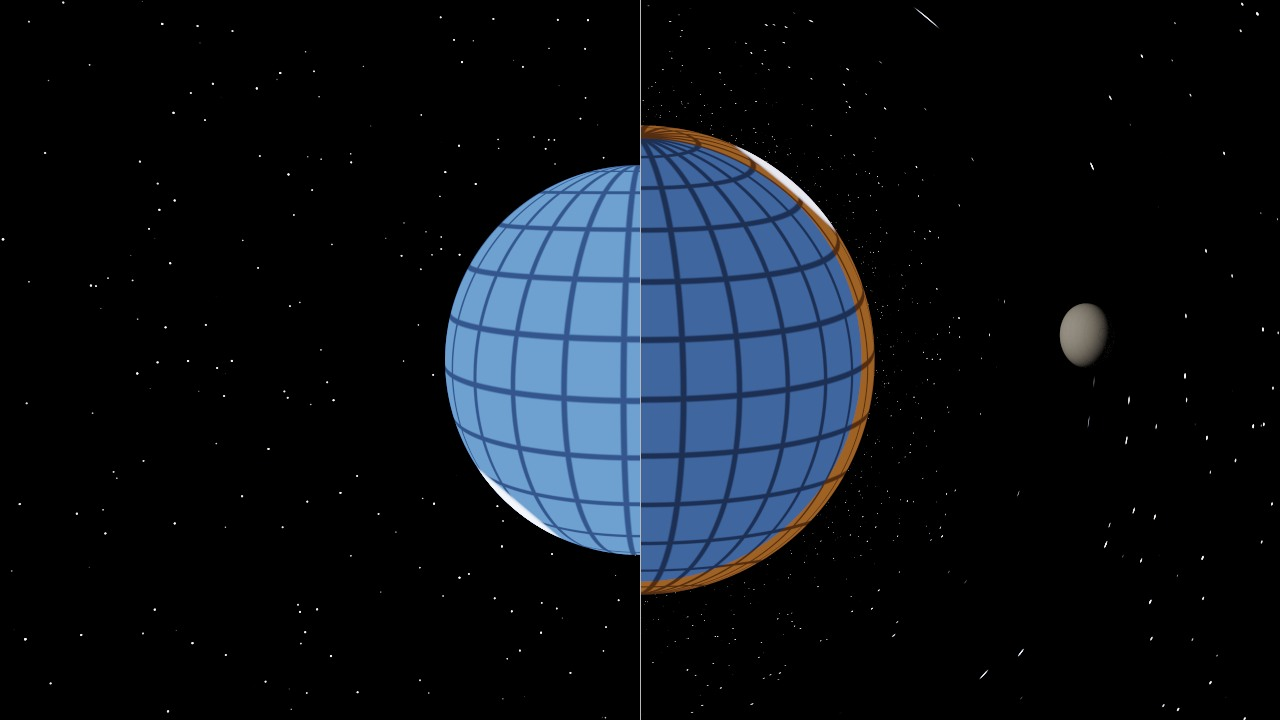
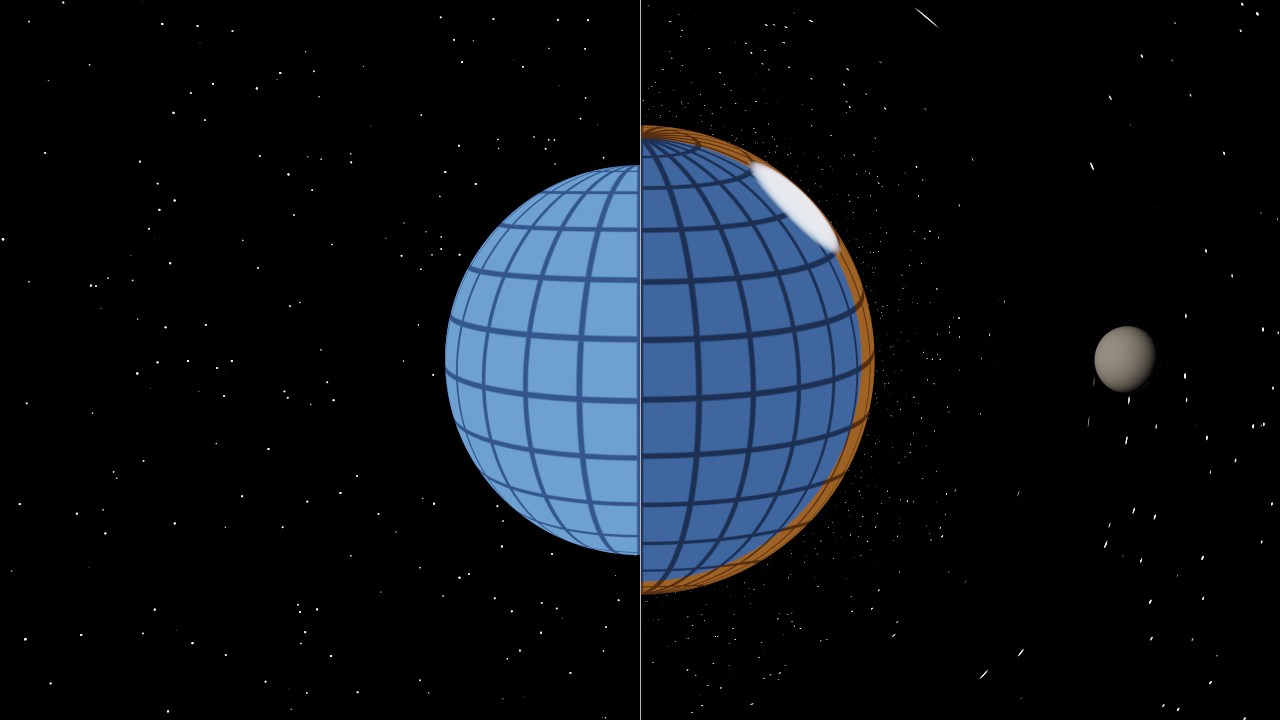
feat: realistic neutron star look with corona and field lines

Changed region(s): [[0.3438, 0.1528, 0.6875, 0.825], [0.8125, 0.4278, 0.9062, 0.55]]

diff --git a/src/main/java/dev/demir/vulkan/scene/ScenePresets.java b/src/main/java/dev/demir/vulkan/scene/ScenePresets.java
@@ -27,8 +27,8 @@ public final class ScenePresets {
 
     /**
      * A neutron star of 1.4 solar masses and 12 km radius (R = 5.8M), spinning, with hot spots at the
-     * poles of a magnetic axis tilted by 45°. Bent light shows 75.5% of its surface instead of half:
-     * the orange parts are those straight light could never show. Seen from 30M it looks 13.34° large
+     * poles of a magnetic axis tilted by 45°, a corona and dipole field lines. Bent light shows 75.5% of
+     * its surface instead of half (the diagnostic view colours in orange what straight light could never show). Seen from 30M it looks 13.34° large
      * instead of 11.15°. See docs/neutron-star.md.
      */
     public static ScenePreset neutronStar() {
@@ -40,7 +40,7 @@ public final class ScenePresets {
                 new ModelInstance(SPHERE, "Distant Star").at(-300, 150, 250).scaled(5)
                         .with(Material.light(1f, 0.95f, 0.85f, 2000f))
         ), new Vec3(0, 30 * Math.sin(elevation), 30 * Math.cos(elevation)), Vec3.ZERO, 40,
-                new RenderSettings(false, 0f, 6, 8192, true, true, false, true), star);
+                new RenderSettings(false, 0f, 6, 8192, true, true, false, true, false), star);
     }
 
     /**
@@ -62,7 +62,7 @@ public final class ScenePresets {
                 new ModelInstance(SPHERE, "Distant Star").at(300, 120, 200).scaled(5)
                         .with(Material.light(1f, 0.9f, 0.75f, 2000f))
         ), new Vec3(0, 40 * Math.sin(elevation), 40 * Math.cos(elevation)), Vec3.ZERO, 38,
-                new RenderSettings(false, 0f, 6, 8192, false, true, false, false), hole);
+                new RenderSettings(false, 0f, 6, 8192, false, true, false, false, false), hole);
     }
 
     /**
@@ -72,7 +72,7 @@ public final class ScenePresets {
     public static ScenePreset blackHoleShadow() {
         CompactObject hole = CompactObject.blackHole(Vec3.ZERO, 1.0, 6.0, 20.0, 0.0);
         return new ScenePreset("Black Hole: Shadow", List::of, new Vec3(0, 0, 40), Vec3.ZERO, 30,
-                new RenderSettings(true, 0f, 4, 4096, false, true, false, false), hole);
+                new RenderSettings(true, 0f, 4, 4096, false, true, false, false, false), hole);
     }
 
     /** The free editor: a ground plane and a figure under the sky. */
@@ -109,7 +109,7 @@ public final class ScenePresets {
             objects.add(new ModelInstance(SPHERE, "Gold Ball").at(-7, 2, 4).scaled(2)
                     .with(Material.metal(1f, 0.78f, 0.34f, 0.05f)));
             return objects;
-        }, new Vec3(-6, 13, 17), new Vec3(0, 7, -6), 65, new RenderSettings(false, 0.5f, 30, 8192, false, true, false, false), null);
+        }, new Vec3(-6, 13, 17), new Vec3(0, 7, -6), 65, new RenderSettings(false, 0.5f, 30, 8192, false, true, false, false, false), null);
     }
 
     /**
@@ -130,7 +130,7 @@ public final class ScenePresets {
                 new ModelInstance(MOON, "Asteroid").at(22, 6, 26).rotated(30, 40, 0).scaled(0.8)
                         .with(Material.diffuse(0.5f, 0.45f, 0.4f)).spinning(6)
         // Camera between the sun and Earth, looking at Earth's sunlit side where the moon's shadow falls.
-        ), new Vec3(26, 8, 22), new Vec3(45, 0.5, 0), 30, new RenderSettings(false, 0f, 6, 8192, true, true, false, false), null);
+        ), new Vec3(26, 8, 22), new Vec3(45, 0.5, 0), 30, new RenderSettings(false, 0f, 6, 8192, true, true, false, false, false), null);
     }
 
     /** A display floor with models, a mirror wall behind them and the sky as light. */
@@ -152,6 +152,6 @@ public final class ScenePresets {
                 new ModelInstance(CUBE, "Cube").at(10, 2, 13).rotated(0, 35, 0).scaled(4)
                         .with(Material.metal(0.3f, 0.6f, 0.9f, 0.3f)),
                 new ModelInstance(SPHERE, "Chrome Ball").at(0, 2.5, 14).scaled(2.5).with(Material.mirror())
-        ), new Vec3(0, 14, 48), new Vec3(0, 5, 0), 45, new RenderSettings(true, 0f, 10, 8192, false, true, false, false), null);
+        ), new Vec3(0, 14, 48), new Vec3(0, 5, 0), 45, new RenderSettings(true, 0f, 10, 8192, false, true, false, false, false), null);
     }
 }

diff --git a/src/main/java/dev/demir/vulkan/ui/SceneSettingsPanel.java b/src/main/java/dev/demir/vulkan/ui/SceneSettingsPanel.java
@@ -20,7 +20,8 @@ public final class SceneSettingsPanel extends JPanel {
     private final JCheckBox animateBox = new JCheckBox("Play animation (orbits, spins)");
     private final JCheckBox gravityBox = new JCheckBox("Gravity bends light");
     private final JCheckBox splitViewBox = new JCheckBox("Split view (left half: straight light)");
-    private final JCheckBox beamsBox = new JCheckBox("Pulsar beams");
+    private final JCheckBox beamsBox = new JCheckBox("Pulsar beams and field lines");
+    private final JCheckBox diagnosticBox = new JCheckBox("Diagnostic view (grid, hidden regions)");
     private final JSpinner bouncesSpinner = new JSpinner(new SpinnerNumberModel(10, 1, 64, 1));
     private final JSlider exposureSlider = new JSlider(-50, 50, 0); // tenths of a stop
     private final JLabel exposureLabel = new JLabel("0.0 EV");
@@ -59,12 +60,14 @@ public final class SceneSettingsPanel extends JPanel {
         Forms.row(this, 6, "", gravityBox);
         Forms.row(this, 7, "", splitViewBox);
         Forms.row(this, 8, "", beamsBox);
+        Forms.row(this, 9, "", diagnosticBox);
 
         skyBox.addActionListener(e -> fireChanged());
         animateBox.addActionListener(e -> fireChanged());
         gravityBox.addActionListener(e -> fireChanged());
         splitViewBox.addActionListener(e -> fireChanged());
         beamsBox.addActionListener(e -> fireChanged());
+        diagnosticBox.addActionListener(e -> fireChanged());
         bouncesSpinner.addChangeListener(e -> fireChanged());
         samplesSpinner.addChangeListener(e -> fireChanged());
         exposureSlider.addChangeListener(e -> {
@@ -87,6 +90,7 @@ public final class SceneSettingsPanel extends JPanel {
             gravityBox.setSelected(settings.gravity());
             splitViewBox.setSelected(settings.splitView());
             beamsBox.setSelected(settings.pulsarBeams());
+            diagnosticBox.setSelected(settings.diagnostic());
         } finally {
             updating = false;
         }
@@ -96,6 +100,6 @@ public final class SceneSettingsPanel extends JPanel {
         if (updating) return;
         onSettingsChanged.accept(new RenderSettings(skyBox.isSelected(), exposureSlider.getValue() / 10f,
                 (Integer) bouncesSpinner.getValue(), (Integer) samplesSpinner.getValue(), animateBox.isSelected(), gravityBox.isSelected(),
-                splitViewBox.isSelected(), beamsBox.isSelected()));
+                splitViewBox.isSelected(), beamsBox.isSelected(), diagnosticBox.isSelected()));
     }
 }

diff --git a/src/main/java/dev/demir/vulkan/scene/RenderSettings.java b/src/main/java/dev/demir/vulkan/scene/RenderSettings.java
@@ -10,11 +10,13 @@ package dev.demir.vulkan.scene;
  * @param animate     play the scene's animations (orbits, spins)
  * @param gravity     black hole / neutron star scenes: bend light rays (true) or trace straight lines (false)
  * @param splitView   black hole / neutron star scenes: left half of the image with straight light, right half bent
- * @param pulsarBeams neutron star scenes: show glowing radiation cones along the magnetic axis
+ * @param pulsarBeams neutron star scenes: show the magnetosphere (radiation cones and magnetic field lines)
+ * @param diagnostic  black hole / neutron star scenes: diagnostic surface (grid, regions only bent light shows) instead of the realistic look
  */
 public record RenderSettings(boolean skyEnabled, float exposure, int maxBounces, int maxSamples,
-                             boolean animate, boolean gravity, boolean splitView, boolean pulsarBeams) {
+                             boolean animate, boolean gravity, boolean splitView, boolean pulsarBeams,
+                             boolean diagnostic) {
 
     /** Stops after 8192 samples: the image has converged and the GPU can rest. */
-    public static final RenderSettings DEFAULT = new RenderSettings(true, 0f, 10, 8192, false, true, false, false);
+    public static final RenderSettings DEFAULT = new RenderSettings(true, 0f, 10, 8192, false, true, false, false, false);
 }

diff --git a/src/main/java/dev/demir/vulkan/engine/VulkanEngine.java b/src/main/java/dev/demir/vulkan/engine/VulkanEngine.java
@@ -383,7 +383,8 @@ public class VulkanEngine implements Runnable {
             ubo.putFloat(128, (float) object.surfaceRadius());
             ubo.putFloat(132, (float) object.spinPeriod());
             ubo.putFloat(136, (float) Math.toRadians(object.magneticTilt()));
-            ubo.putFloat(140, (settings.splitView() ? 1 : 0) + (settings.pulsarBeams() ? 2 : 0)); // flags
+            ubo.putFloat(140, (settings.splitView() ? 1 : 0) + (settings.pulsarBeams() ? 2 : 0)
+                    + (settings.diagnostic() ? 4 : 0)); // flags
         } else {
             for (int offset = 96; offset < FRAME_UBO_SIZE; offset += 4) ubo.putFloat(offset, 0f);
         }

diff --git a/docs/neutron-star.md b/docs/neutron-star.md
@@ -5,7 +5,7 @@ by its gravity on the way to the camera. The **Neutron Star** scene uses the sam
 paths as the black hole (see [black-hole.md](black-hole.md)); the difference is that rays can end on a
 glowing surface. Units: G = c = 1, mass M.
 
-| Bent light, with pulsar beams | Split view: straight light (left) and bent light (right) |
+| Realistic look: bent light, corona, field lines and pulsar beams | Diagnostic split view: straight light (left) and bent light (right) |
 |---|---|
 | ![Neutron star](../render_images/rt/neutron-star.jpg) | ![Split view](../render_images/rt/neutron-star-split.jpg) |
 
@@ -61,19 +61,23 @@ Without bending the spot would vanish for about 40 % of each turn; with bending 
 
 ## 2. Visualization
 
-The scene has to make an invisible effect obvious, so some elements are physical and some are
-deliberately diagnostic:
+The scene has two looks. The default is a realistic picture of a pulsar; the *Diagnostic view* switch
+replaces it with a colouring that makes the invisible effect of bending obvious (and is what the
+measurements below use):
 
 | Element | Kind | Why |
 |---|---|---|
 | Light bending, apparent size, lensed star field | physical | exact ray marching |
 | Gravitational redshift of the surface (g⁴ brightness, g · temperature) | physical | uniform dimming / reddening |
-| Hot spots at the magnetic poles, black-body colour | physical model, simplified | the classic pulsar picture |
-| **Hidden-region colouring** of the surface: orange where straight light from the camera can never reach (n · toCamera < R / distance), blue elsewhere, with a latitude–longitude grid | diagnostic | every orange pixel is a part of the star that only bent light shows |
+| Hot surface: black-body colour, gentle mottling, limb darkening I ∝ 0.35 + 0.65 μ (μ = cosine of the emission angle) | physical model, simplified | a ~10⁶ K atmosphere is darker towards the limb; the true colour of such a hot surface is blue-white |
+| Hot polar caps at the magnetic poles | physical model, simplified | the classic pulsar picture; they spin into view and, thanks to bending, never fully disappear |
+| Corona: a thin glowing layer, density ∝ exp(-(r - R) / 0.1R) | artistic | gives the limb a halo; sampled along the bent ray |
+| Dipole magnetic field lines r = L sin²θ (θ from the magnetic axis), three shells L = 1.6R, 2.5R, 3.4R in six planes | physical shape, artistic glow | the field of a magnetized star; turns with the star; sampled along the bent ray, so it is lensed |
+| **Diagnostic view:** hidden-region colouring of the surface: orange where straight light from the camera can never reach (n · toCamera < R / distance), blue elsewhere, with a latitude–longitude grid | diagnostic | every orange pixel is a part of the star that only bent light shows |
 | **Split view**: left half straight light, right half bent light, same frame | diagnostic | direct comparison without toggling |
-| Pulsar beams: glowing cones along the magnetic axis | artistic | shows where the radiation goes; the glow is sampled along the bent ray, so the beams look bent near the star |
+| Pulsar beams: glowing cones along the magnetic axis (switch *Pulsar beams and field lines*) | artistic | shows where the radiation goes; the glow is sampled along the bent ray, so the beams look bent near the star |
 
-The star spins with *Play animation*, so the hot spots move to the far side and stay visible.
+The star spins with *Play animation*, so the hot caps, field lines and beams turn with it.
 
 ## 3. Implementation
 
@@ -84,7 +88,11 @@ The star spins with *Play animation*, so the hot spots move to the far side and 
   rule is only used for a black hole with gravity.
 - The scene data is a `CompactObject` (black hole: surface radius 0; neutron star: radius, spin period,
   magnetic tilt). The frame UBO carries it in three vec4s, plus the display flags.
-- *Split view* and *Pulsar beams* are switches in the Scene panel; the star spins with *Play animation*.
+- `surfaceEmission` gives the surface radiance (realistic or diagnostic, chosen by a flag bit), times g⁴ with gravity;
+  `magnetosphereGlow` adds the corona, field lines and beams for each chord of the ray (two samples per chord,
+  with early outs beyond the outermost field line), so the glow costs little: the scene still renders in ~15 ms.
+- *Split view*, *Pulsar beams and field lines* and *Diagnostic view* are switches in the Scene panel; the star
+  spins with *Play animation*.
 
 ## 4. Verification
 
@@ -98,14 +106,14 @@ The star spins with *Play animation*, so the hot spots move to the far side and 
 | Apparent angular radius from 30M | 13.34177° | 13.34141° (formula) |
 | Same without gravity | 11.14738° | asin(R/r) = 11.14738° |
 
-On the GPU (scene **Neutron Star**, animation and beams off, camera at 30M, 40° vertical field of view),
+On the GPU (scene **Neutron Star**, *Diagnostic view* on, animation and beams off, camera at 30M, 40° vertical field of view),
 radius measured from the image center in four directions with sub-pixel edge detection:
 
 | | Rendered | Theory |
 |---|---|---|
 | Radius with gravity | **234.8 px** (234.7 … 234.8) | 234.6 px |
 | Radius without gravity | **194.9 px** (194.9 … 195.0) | 194.9 px |
-| Pixels showing the hidden region (orange) | 16 001 with gravity, **0** without | 0 without gravity |
+| Pixels showing the hidden region (orange) | 16 014 with gravity, **0** without | 0 without gravity |
 
 Performance on an RTX 5060 Ti: about 15 ms GPU time per frame (~67 frames per second).
 

diff --git a/README.md b/README.md
@@ -23,7 +23,7 @@ This project, developed as a **Software Engineering Student Project**, demonstra
 * **Path Tracing:** Progressive accumulation (the image keeps refining until a sample limit), materials **Matte**, **Metal** (roughness 0 = mirror), **Glass** (refraction, Fresnel) and **Light** (emissive), direct light sampling with shadow rays towards spherical lights, Russian roulette, ACES tone mapping and exposure.
 * **Animation:** Objects can orbit other objects (or the origin) and spin; orbits nest (a moon around a planet around a sun). The TLAS is rebuilt on the GPU inside every frame.
 * **Black Hole:** Camera rays follow exact Schwarzschild light paths (RK4 integration, each step traced as a ray query), with a relativistic accretion disk (gravitational and Doppler shift, g⁴ beaming). Verified against known results: the rendered shadow is 171.0 px for a predicted 171.4 px.
-* **Neutron Star:** The same light paths ending on a glowing, spinning surface with gravitational redshift; diagnostic colouring of the regions only bent light can show, a split view (straight vs bent) and pulsar beams. The rendered star measures 234.8 px for a predicted 234.6 px (194.9 px without gravity).
+* **Neutron Star:** The same light paths ending on a hot, spinning surface (black-body colour, limb darkening, gravitational redshift) inside a thin corona, with dipole magnetic field lines and pulsar beams. A diagnostic view colours the regions only bent light can show, and a split view puts straight and bent light side by side. The rendered star measures 234.8 px for a predicted 234.6 px (194.9 px without gravity).
 * **Multi-Threaded Architecture:**
     * **UI Thread:** Responsive Swing Interface (never freezes).
     * **Vulkan Render Thread (VRT):** Dedicated rendering loop with two frames in flight; the only thread that makes Vulkan calls.
@@ -42,9 +42,9 @@ This project, developed as a **Software Engineering Student Project**, demonstra
 | **Black Hole** | **Black Hole without gravity** |
 | ![Black Hole](render_images/rt/black-hole.jpg) | ![No gravity](render_images/rt/black-hole-no-gravity.jpg) |
 | Light bent around a Schwarzschild black hole: the far side of the accretion disk shows above and below the shadow, a planet hidden behind the hole appears as Einstein arcs, the approaching side of the disk is brighter (Doppler beaming). See [docs/black-hole.md](docs/black-hole.md) for the physics and its verification. | The same scene with straight light rays, for comparison: the horizon is a black sphere and the planet behind it is hidden. |
-| **Neutron Star** | **Neutron Star, split view** |
+| **Neutron Star** | **Neutron Star, diagnostic split view** |
 | ![Neutron Star](render_images/rt/neutron-star.jpg) | ![Split view](render_images/rt/neutron-star-split.jpg) |
-| A spinning neutron star (1.4 solar masses, 12 km) with hot spots and pulsar beams. Bent light shows 75.5 % of its surface instead of half; the orange parts are those straight light could never show. See [docs/neutron-star.md](docs/neutron-star.md). | Left half straight light, right half bent light: the star looks 20 % larger, redshifted, and shows its far side. |
+| A spinning neutron star (1.4 solar masses, 12 km): hot surface and polar caps, corona, magnetic field lines and pulsar beams, all seen through bent light. See [docs/neutron-star.md](docs/neutron-star.md). | Diagnostic view, left half straight light, right half bent light: the star looks 20 % larger, redshifted, and shows its far side (orange: 75.5 % of the surface is visible instead of half). |
 
 ##  System & Performance
 
@@ -103,7 +103,7 @@ graph TD
 * **W / S, A / D, Q / E:** Move forward / back, left / right, up / down (camera and target together)
 
 ### Side Panel
-* **Scene:** Load a preset (Custom, Mirror Room, Eclipse, ShowRoom, Black Hole, Black Hole: Shadow, Neutron Star); sky light, maximum bounces, exposure, sample limit (rendering stops when reached, 0 = never), *Play animation*, and for black hole and neutron star scenes *Gravity bends light*, *Split view* (left half straight light) and *Pulsar beams*.
+* **Scene:** Load a preset (Custom, Mirror Room, Eclipse, ShowRoom, Black Hole, Black Hole: Shadow, Neutron Star); sky light, maximum bounces, exposure, sample limit (rendering stops when reached, 0 = never), *Play animation*, and for black hole and neutron star scenes *Gravity bends light*, *Split view* (left half straight light), *Pulsar beams and field lines* and *Diagnostic view* (grid, hidden regions in orange).
 * **Object pool:** The sphere primitive and the models in `objects/`. *Add* (or double-click) places one where the camera looks; *Browse...* adds any `.obj` file.
 * **Objects:** The objects in the scene, with *Duplicate* and *Remove*.
 * **Object settings:** Name, position, rotation, scale, material (color, roughness, light brightness, index of refraction) and animation (orbit center, orbit period, spin period) of the selected object.

diff --git a/DEVELOPMENT_LOG.md b/DEVELOPMENT_LOG.md
@@ -15,7 +15,7 @@ The renderer was rebuilt around the GPU's ray tracing hardware (RT cores). In or
 7. **Editor and scenes:** new side panel (scene settings, object pool, object list, object settings), mouse orbit / zoom camera, and the presets Custom, Mirror Room, Eclipse and ShowRoom.
 8. **Animation:** objects can orbit other objects and spin; the TLAS is rebuilt on the GPU inside every frame.
 9. **Black hole:** camera rays follow exact Schwarzschild light paths (RK4 on dx/dλ = v, dv/dλ = -3Mh²x/r⁵), each step traced as a ray query; thin accretion disk from 6M with gravitational and Doppler shift. A CPU twin of the integrator is unit-tested against exact results, and the rendered shadow measures 171.0 px for a predicted 171.4 px. Details: [docs/black-hole.md](docs/black-hole.md).
-10. **Neutron star:** the black hole ray march generalized to compact objects with a surface (`CompactObject`). Light from a 1.4 solar-mass, 12 km star shows 75.5 % of its surface; the rendered size (234.8 px, theory 234.6 px; 194.9 px without gravity) and the visible region are verified. Diagnostic colouring, a split view (straight vs bent light) and pulsar beams. Details: [docs/neutron-star.md](docs/neutron-star.md).
+10. **Neutron star:** the black hole ray march generalized to compact objects with a surface (`CompactObject`). Light from a 1.4 solar-mass, 12 km star shows 75.5 % of its surface; the rendered size (234.8 px, theory 234.6 px; 194.9 px without gravity) and the visible region are verified. Realistic look (hot surface with limb darkening, corona, dipole field lines, pulsar beams) plus a diagnostic view and a split view (straight vs bent light). Details: [docs/neutron-star.md](docs/neutron-star.md).
 
 ### Next
 

diff --git a/GALLERY.md b/GALLERY.md
@@ -25,7 +25,7 @@ Rendered with the RT-core path tracer on an NVIDIA RTX 5060 Ti (the built-in sce
   </tr>
   <tr>
     <td align="center"><img src="render_images/rt/neutron-star.jpg" width="400" /><br/><sub>Neutron Star</sub></td>
-    <td align="center"><img src="render_images/rt/neutron-star-split.jpg" width="400" /><br/><sub>Neutron Star, split view (straight | bent light)</sub></td>
+    <td align="center"><img src="render_images/rt/neutron-star-split.jpg" width="400" /><br/><sub>Neutron Star, diagnostic split view (straight | bent light)</sub></td>
   </tr>
 </table>
 
